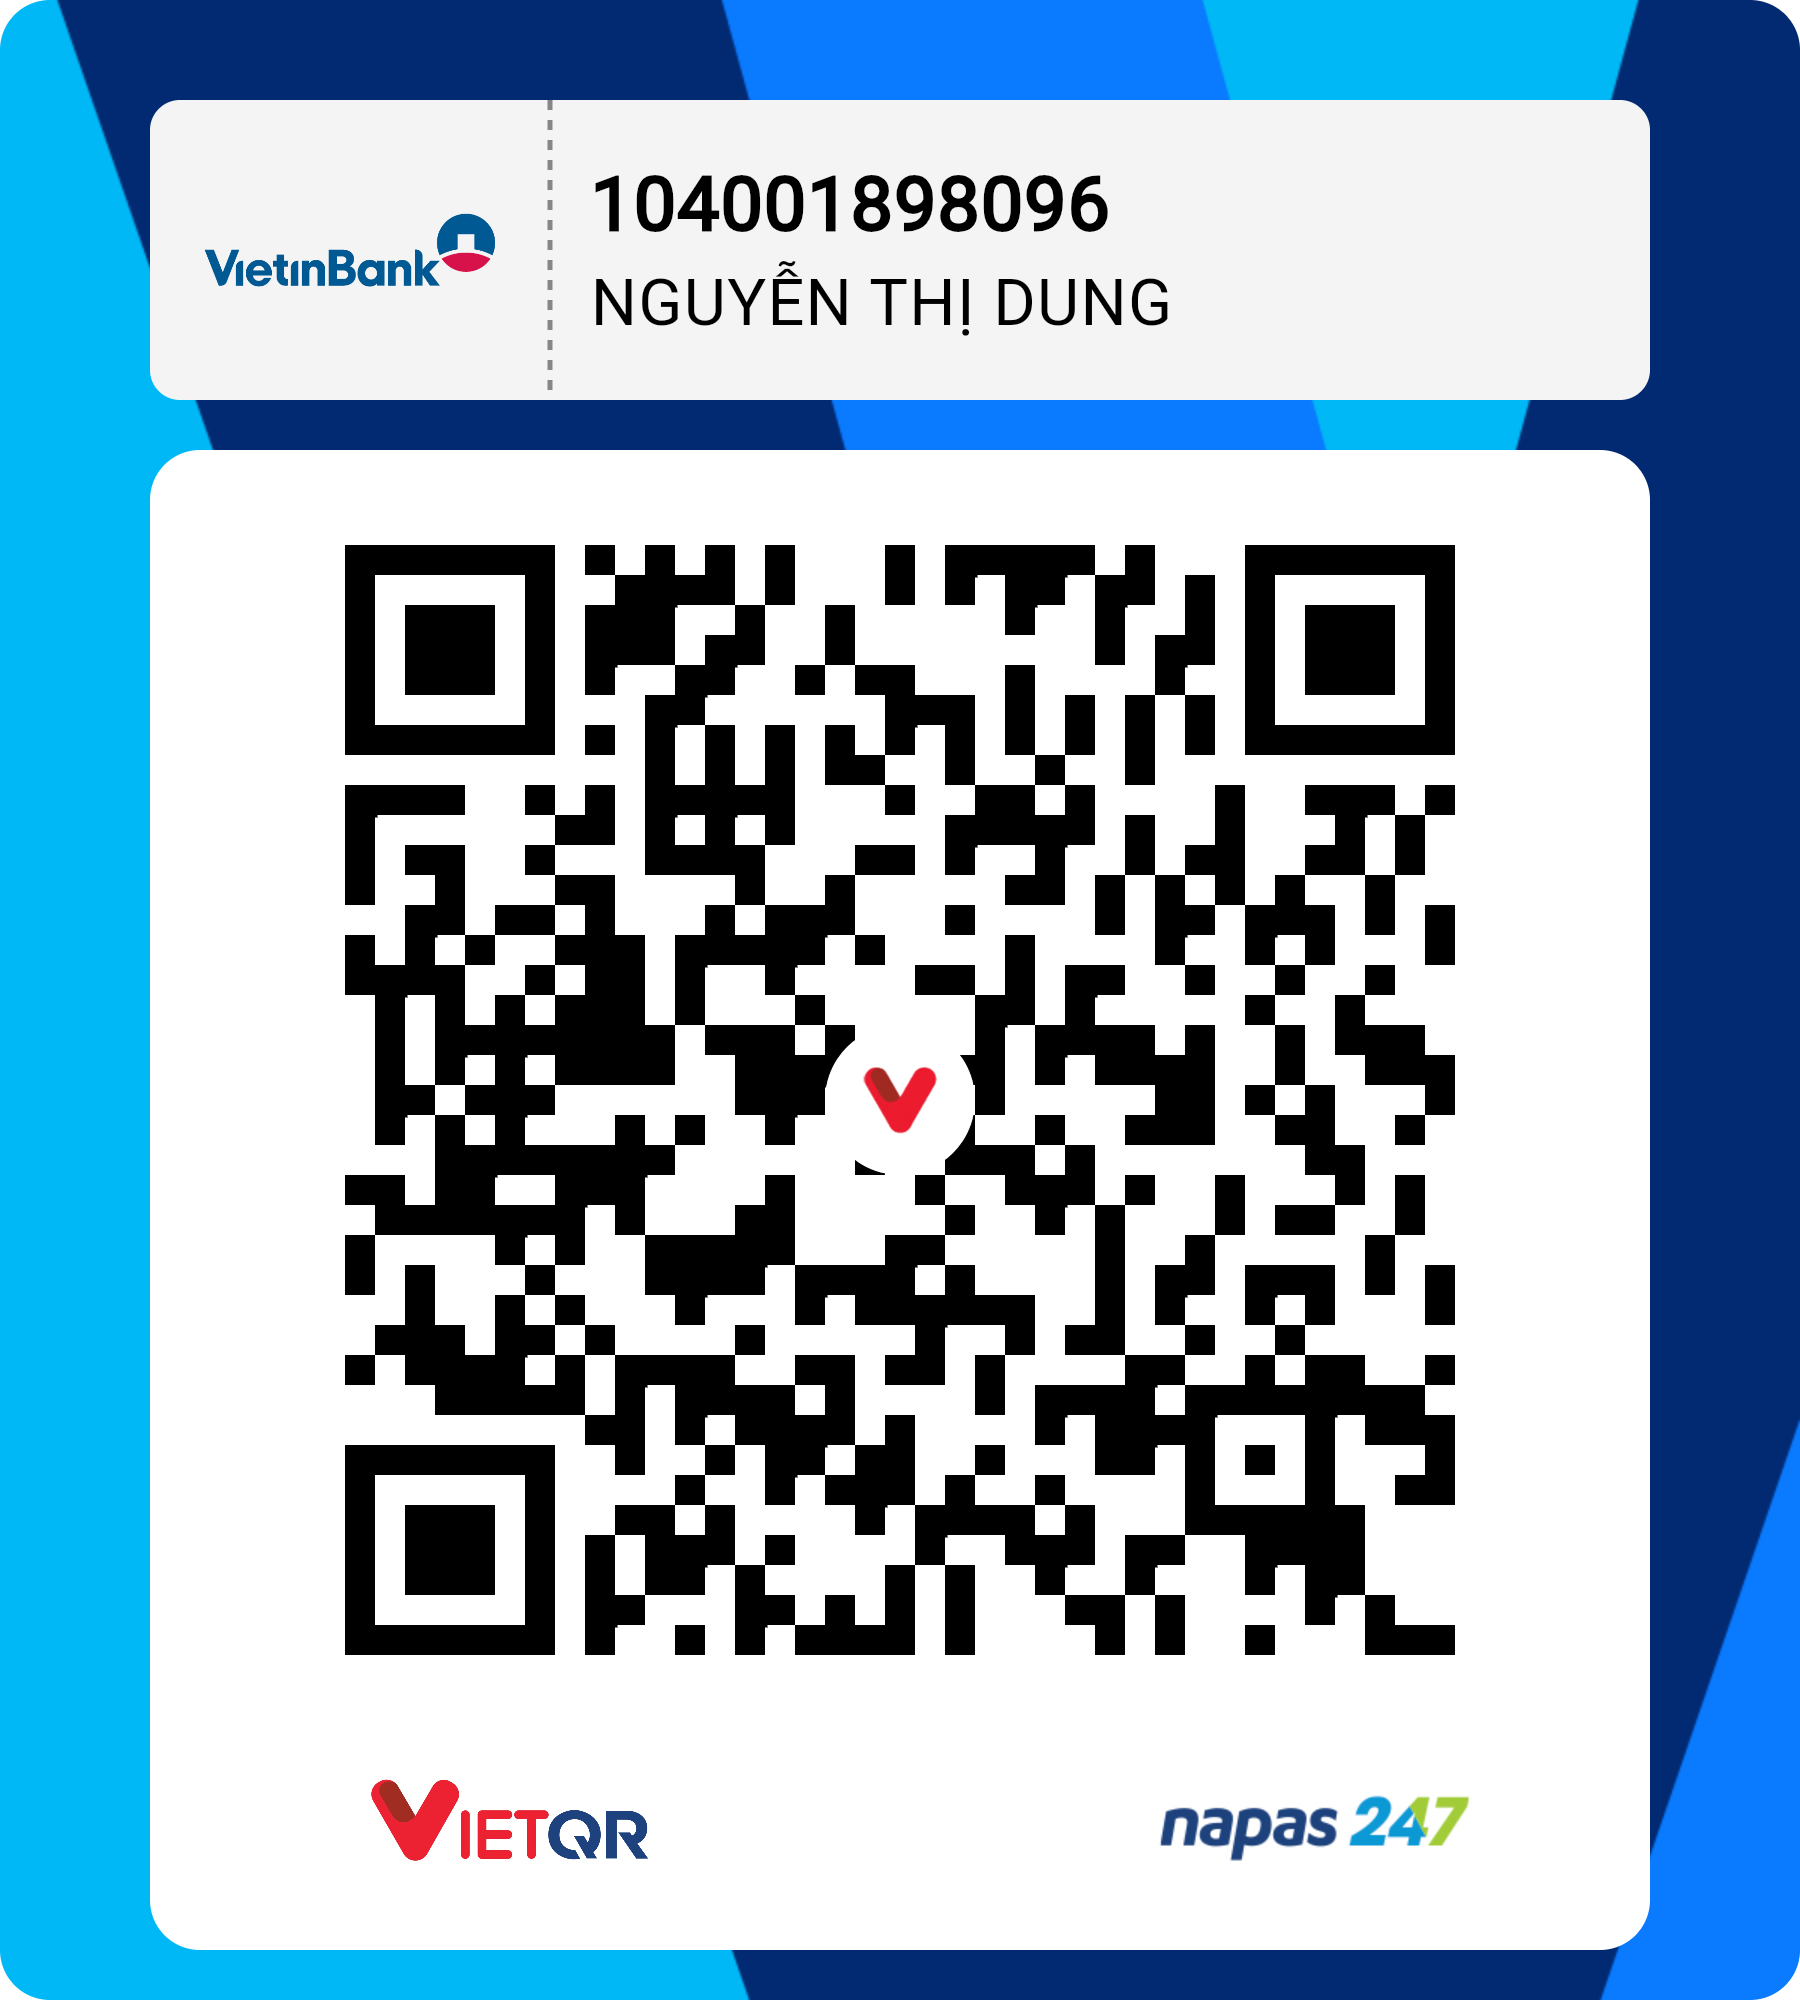
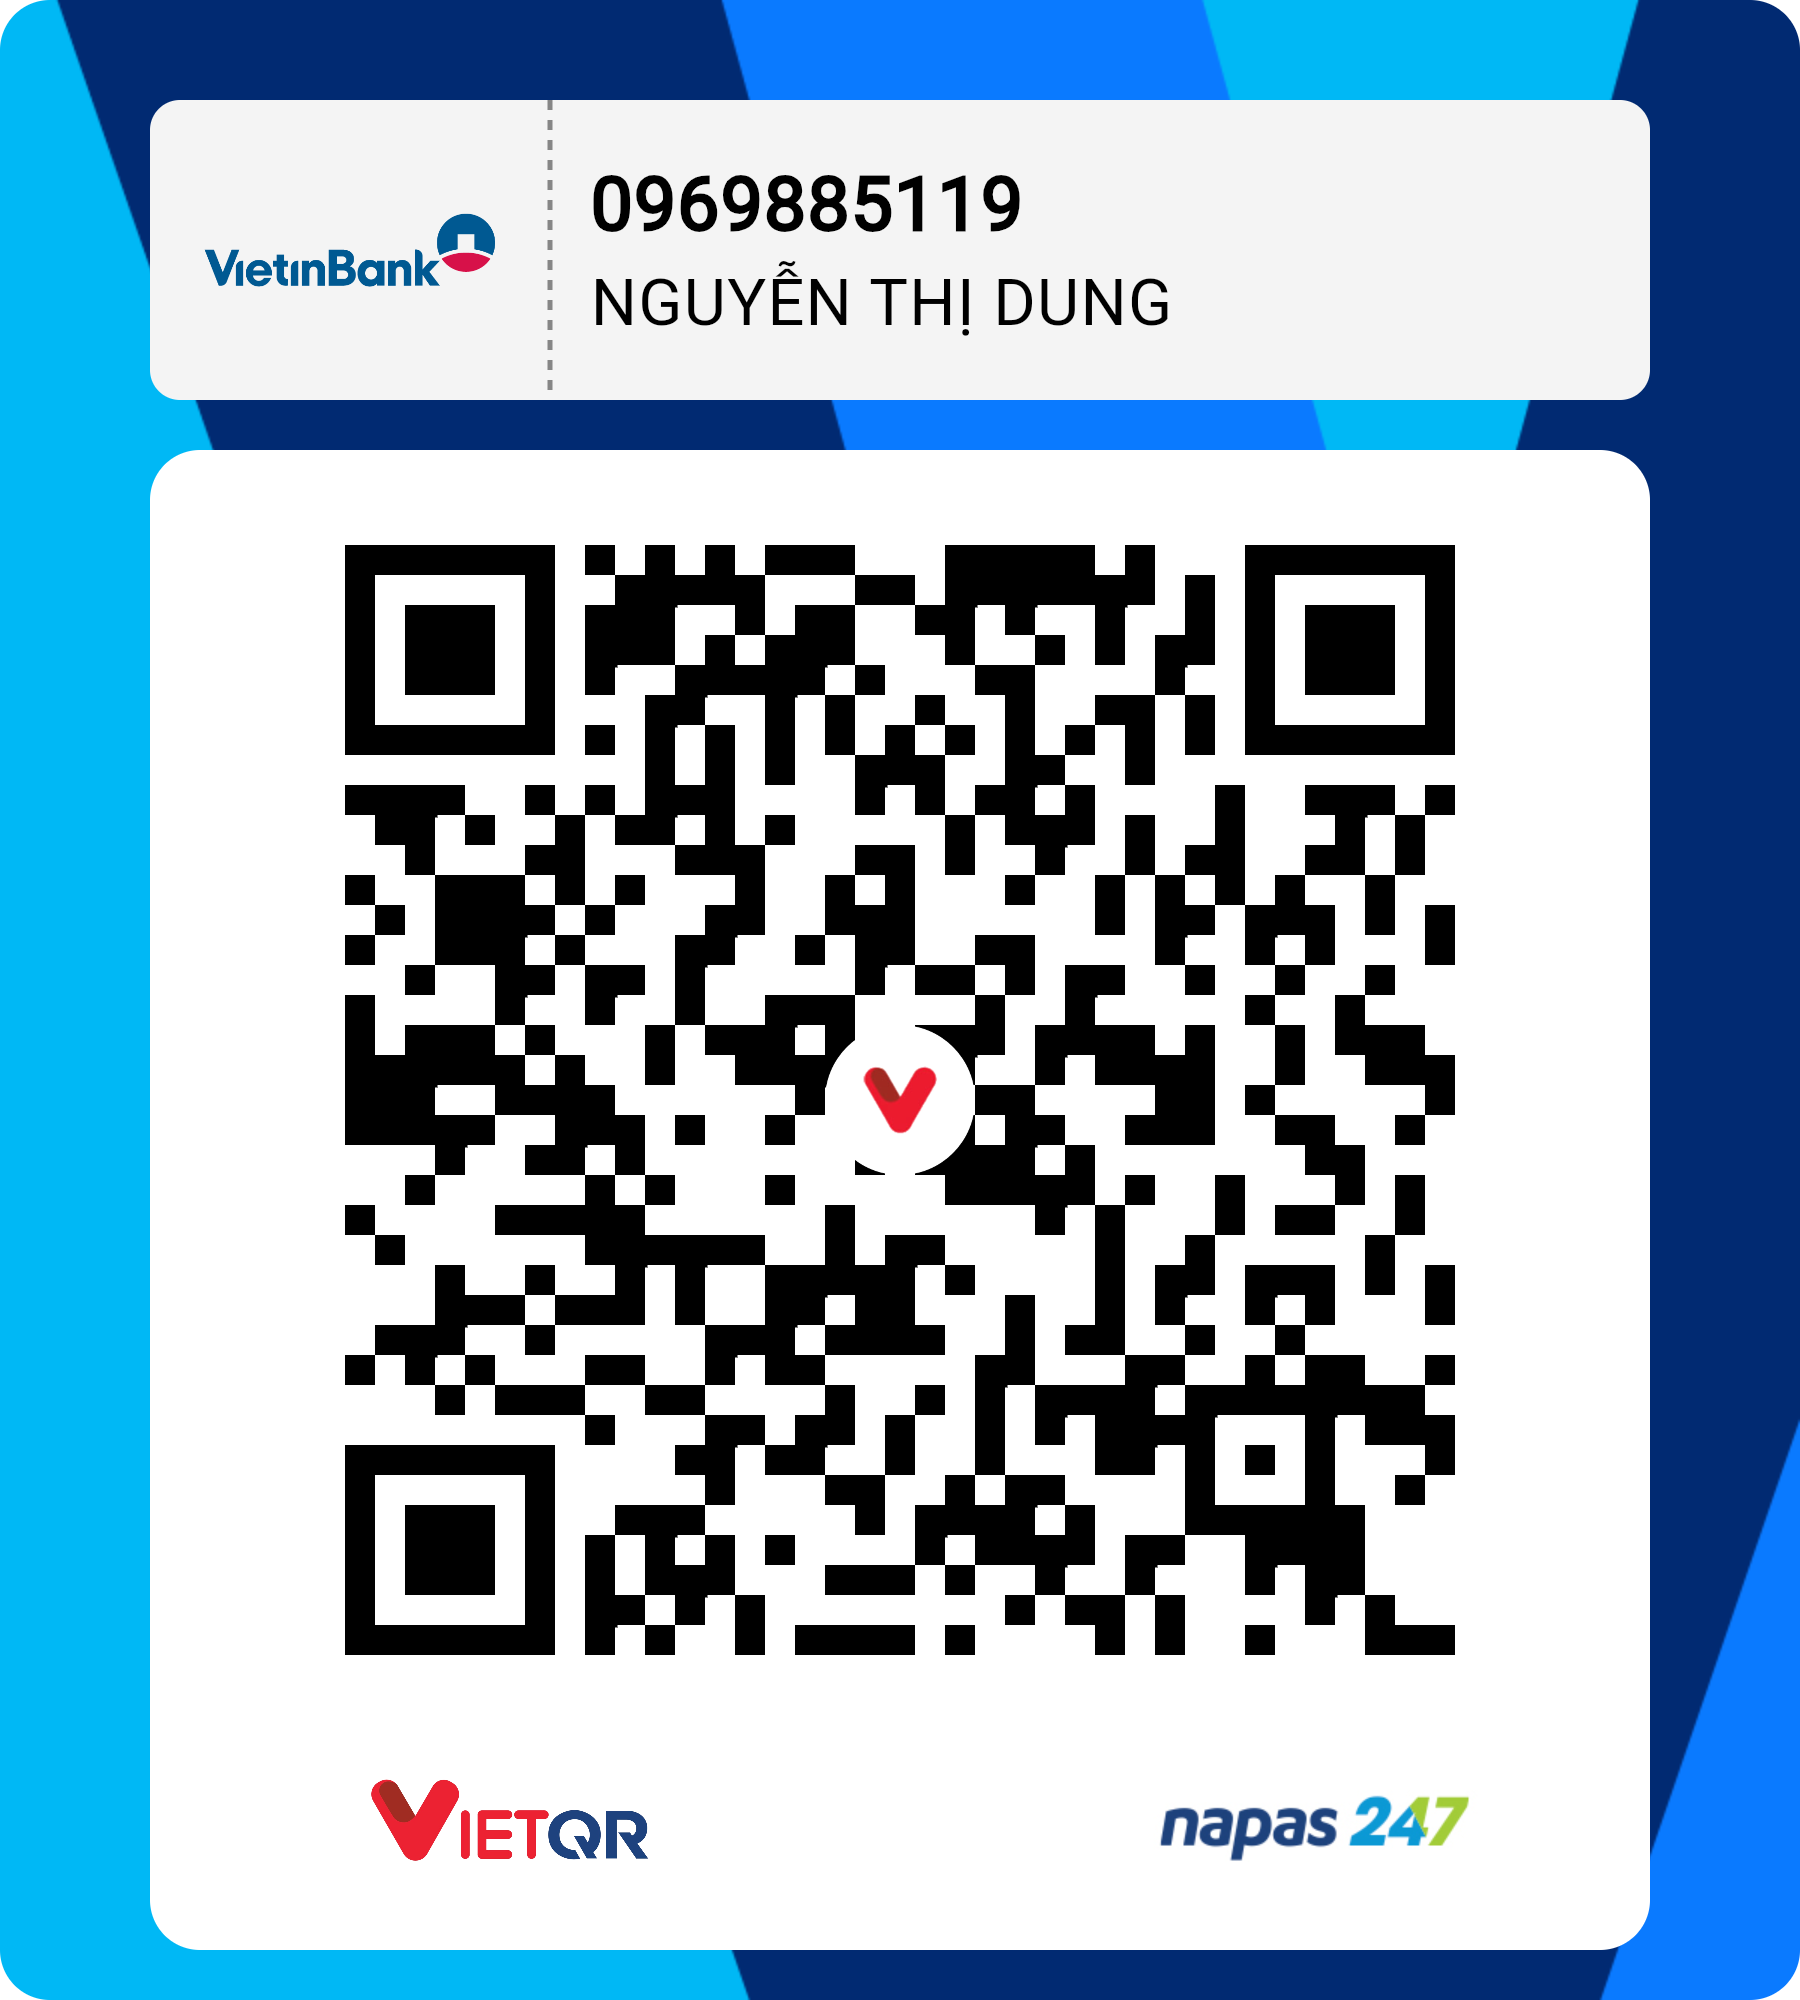
update

diff --git a/index.html b/index.html
@@ -8365,7 +8365,7 @@ var message="NoRightClicking"; function defeatIE() {if (document.all) {(message)
                     <div class='ladi-group'>
                         <div id="PARAGRAPH81" class='ladi-element'>
                             <div class='ladi-paragraph'><span style="font-weight: bold;">CTK:</span> Nguyễn Thị
-                                Dung<br><span style="font-weight: bold;">STK:</span>104001898096<br><span
+                                Dung<br><span style="font-weight: bold;">STK:</span>0969885119<br><span
                                     style="font-weight: bold;">Vietinbank</span></div>
                         </div>
                         <div id="PARAGRAPH82" class='ladi-element'>
@@ -8805,7 +8805,7 @@ var message="NoRightClicking"; function defeatIE() {if (document.all) {(message)
                         <div id="HEADLINE107" class='ladi-element'>
                             <h3 class='ladi-headline'>CTK: Nguyễn Thị Dung<span
                                     style="font-weight: normal;"><br></span>STK: <span
-                                    style="font-weight: normal;">104001898096</span><br>NH: <span
+                                    style="font-weight: normal;">0969885119</span><br>NH: <span
                                     style="font-weight: normal;">Vietinbank</span><br></h3>
                         </div>
                         <div id="HEADLINE108" class='ladi-element'>
